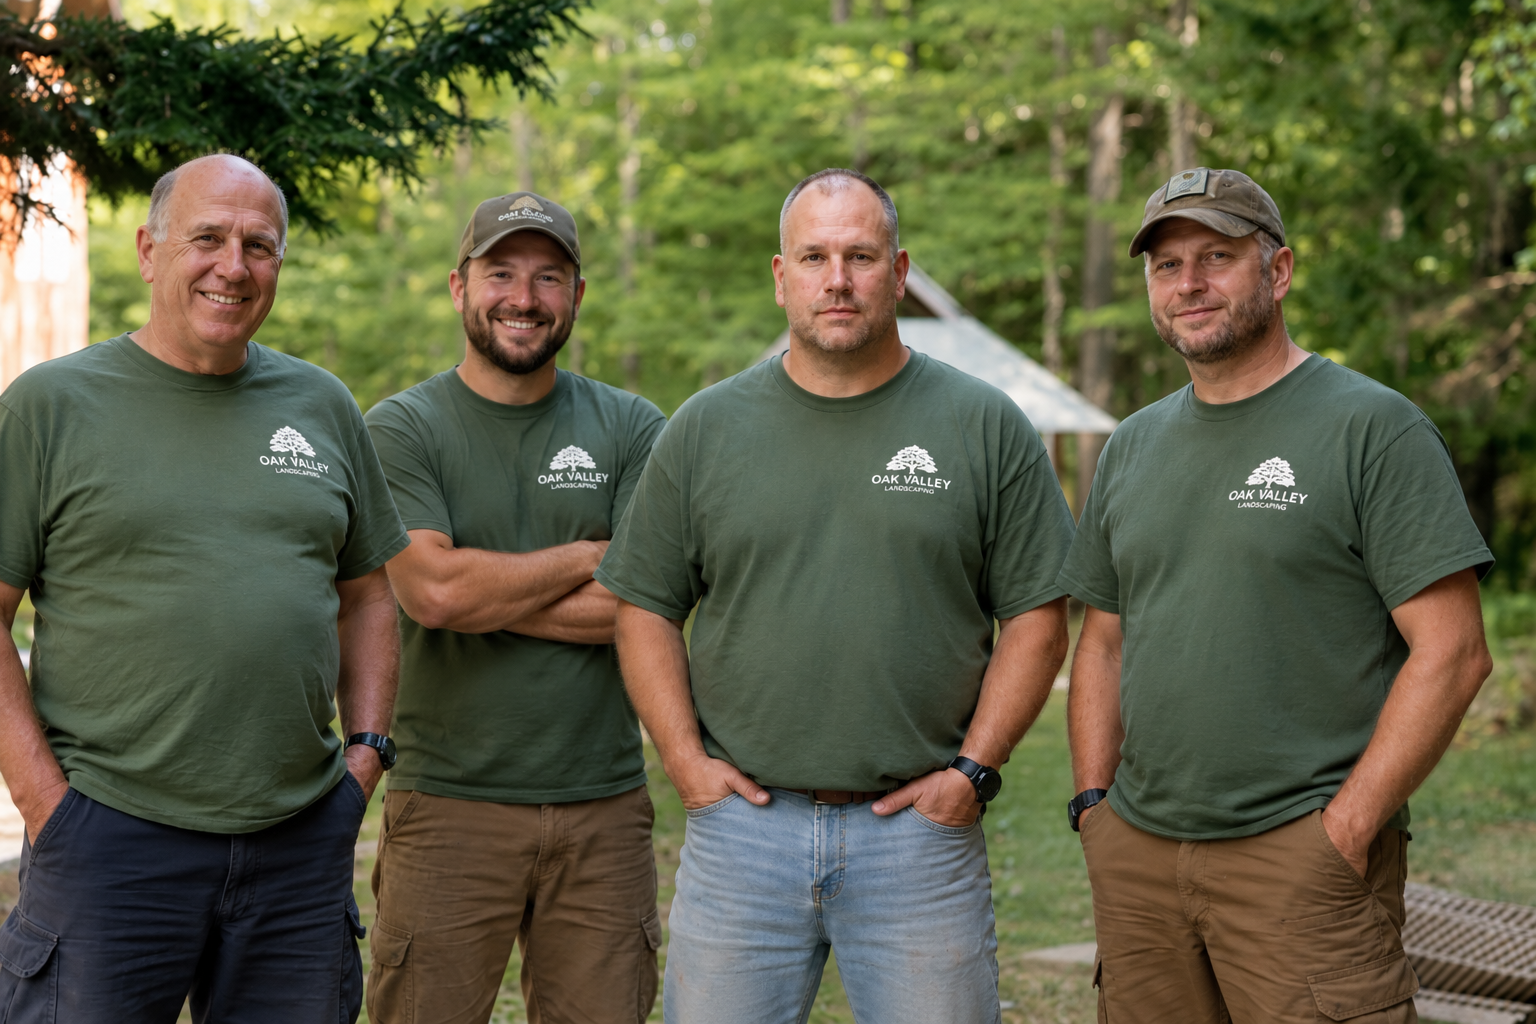
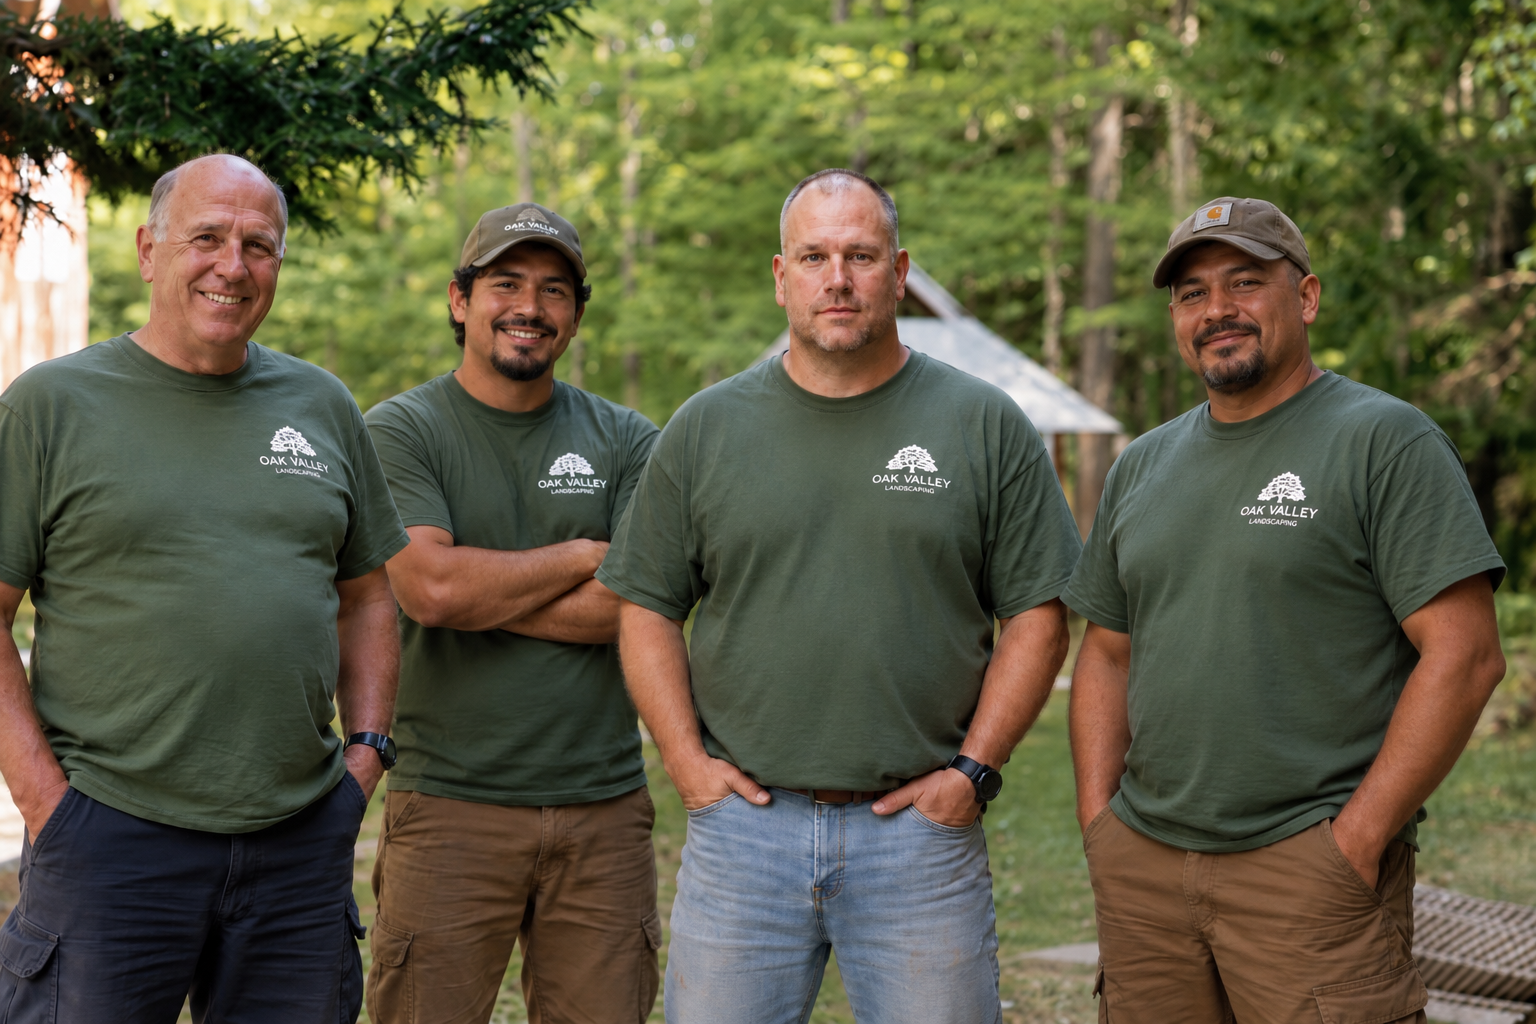
Fixed contact-landcape image/team image.

diff --git a/src/style.css b/src/style.css
@@ -1498,11 +1498,18 @@ textarea {
   padding: clamp(4rem, 6vw, 6rem);
 
   background:
-    linear-gradient(rgba(20, 38, 30, 0.12), rgba(20, 38, 30, 0.12)),
-    url("/images/contact-landscape.jpg");
+    linear-gradient(
+      to right,
+      var(--cream) 0%,
+      rgba(247, 244, 237, 0.75) 5%,
+      rgba(247, 244, 237, 0.25) 12%,
+      transparent 22%
+    ),
+    url("/images/contact-landscape.png");
 
   background-size: cover;
   background-position: center;
+  background-repeat: no-repeat;
 }
 
 .contact-form-card {
